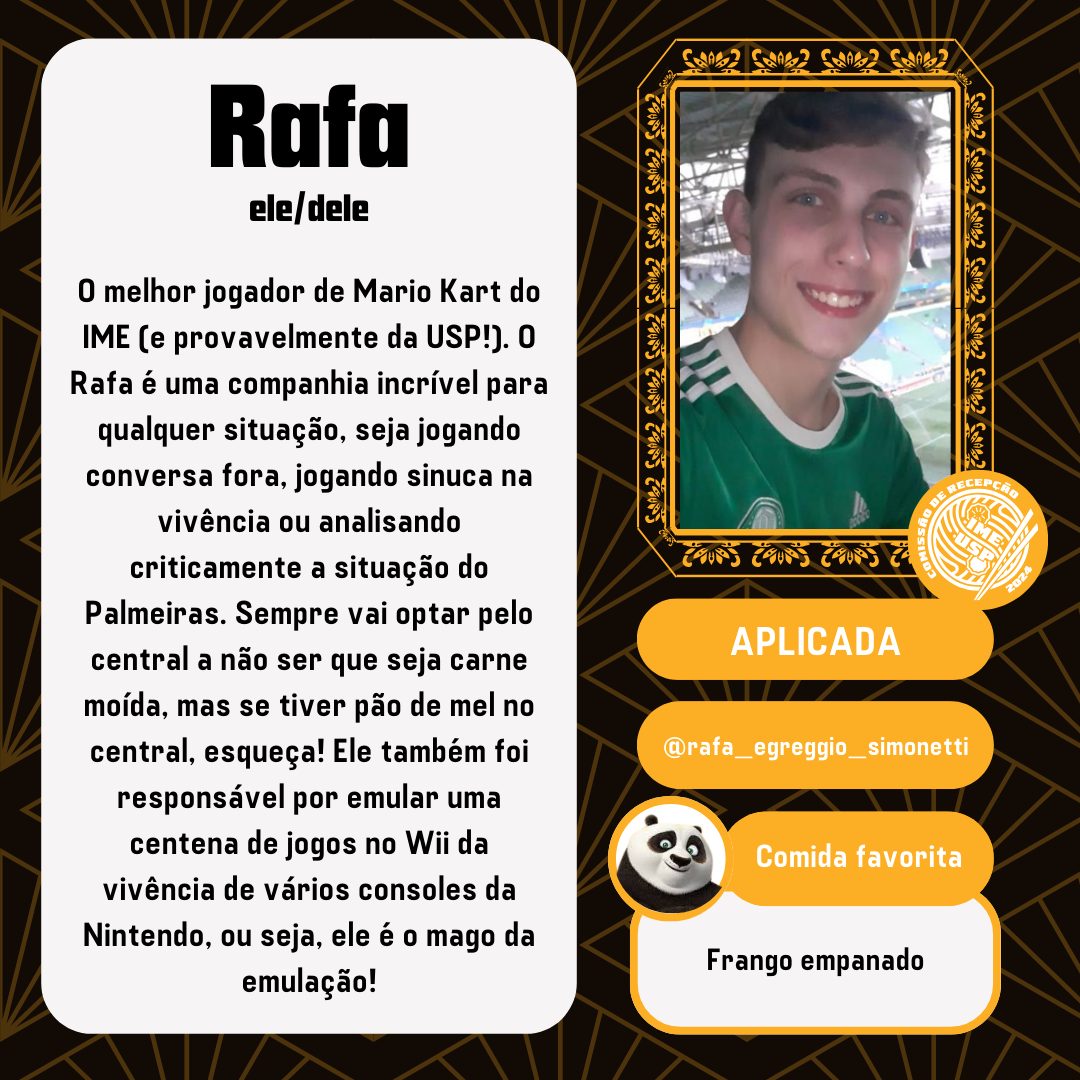
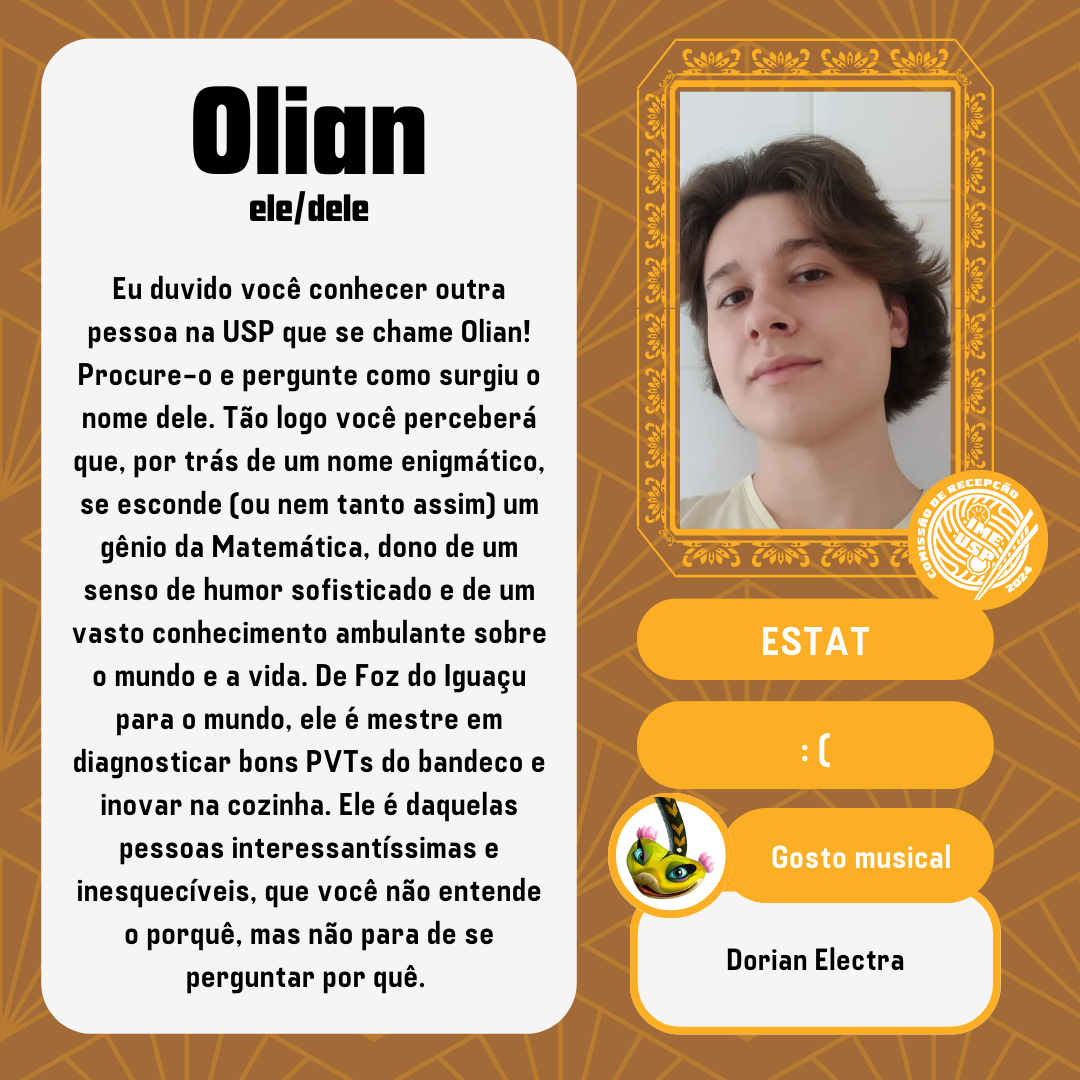
Adiciona fotos 'Conhecendo Comissão' 6 e 7

diff --git a/pages/comissao.vue b/pages/comissao.vue
@@ -70,7 +70,7 @@
           <h2 class="titulo txtWhite">Conheça a Comissão!</h2>
           <v-row justify="center">
             <v-col cols="12">
-              <PolaroidCarousel :ano="2024" :numero="45" />
+              <PolaroidCarousel :ano="2024" :numero="55" />
             </v-col>
           </v-row>
         </v-container>
